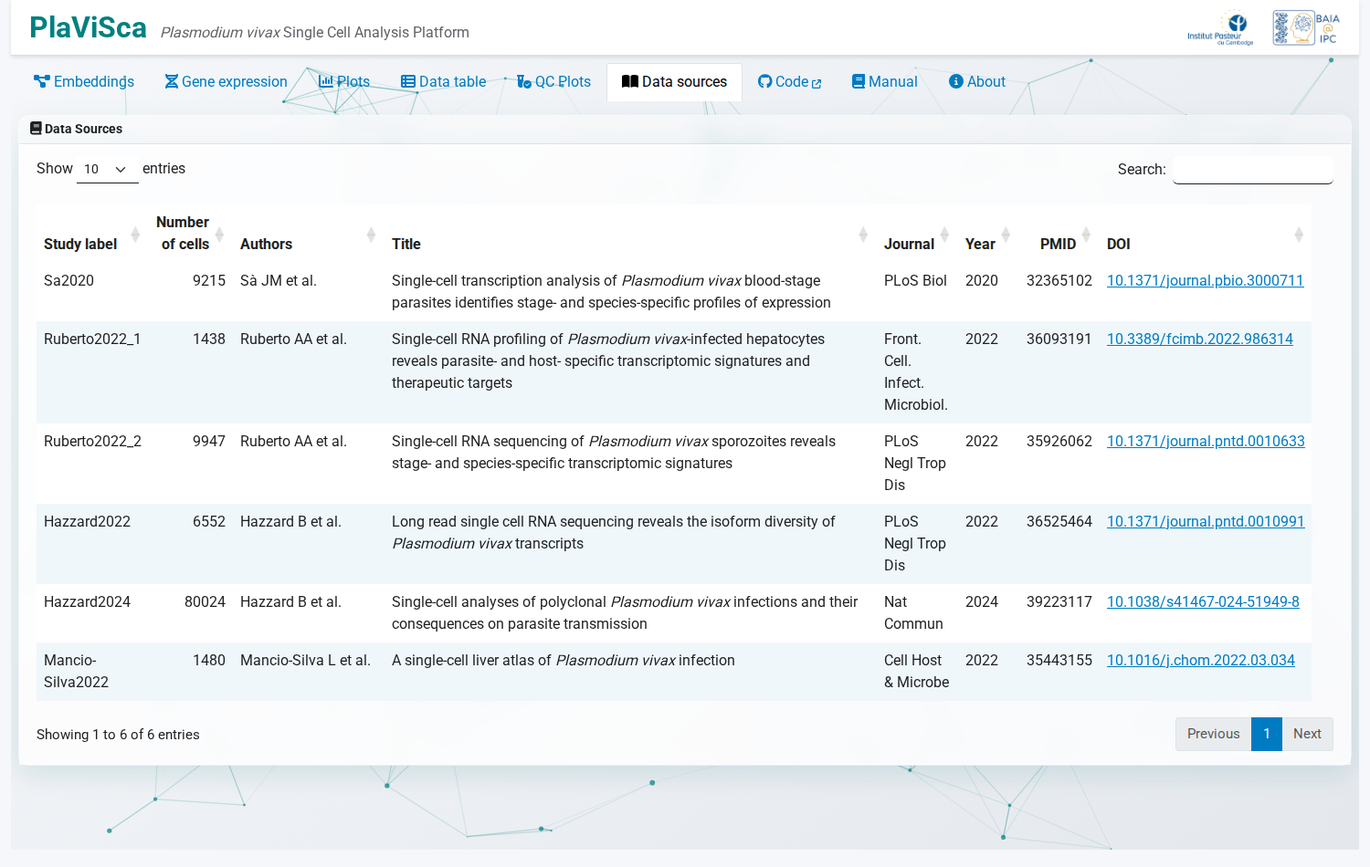
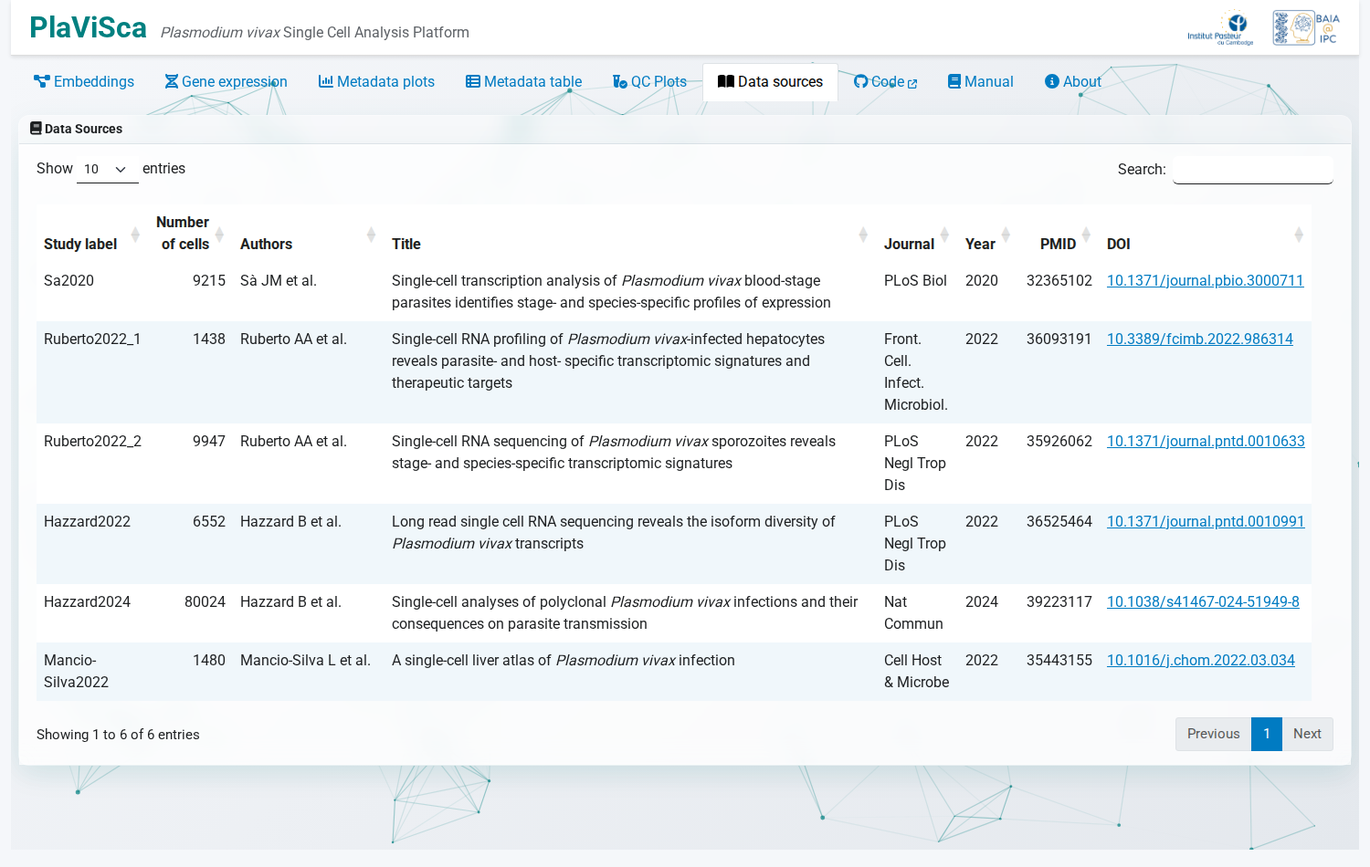
Manual: retake the screenshots and rebuild the HTML manual
The screenshots show the renamed tabs and two plots in the Metadata plots
tab.

diff --git a/manual/docs/build/html/searchindex.js b/manual/docs/build/html/searchindex.js
@@ -1,1 +1,1 @@
-Search.setIndex({"alltitles":{"1. Clone the Repository":[[1,"clone-the-repository"]],"2. Install Dependencies":[[1,"install-dependencies"]],"3. Prepare the Data":[[1,"prepare-the-data"]],"4. Run the Application":[[1,"run-the-application"]],"About":[[2,"about"]],"Best Practices":[[2,"best-practices"]],"Contact":[[1,"contact"],[2,"contact"]],"Contents":[[0,null]],"Data Processing Pipeline":[[2,"data-processing-pipeline"]],"Data Sources":[[2,"data-sources"]],"Data table":[[2,"data-table"]],"Embeddings":[[2,"embeddings"]],"Environment Snapshot (current)":[[1,"environment-snapshot-current"]],"Gene Expression":[[2,"gene-expression"]],"Installation Steps":[[1,"installation-steps"]],"Notes for macOS":[[1,"notes-for-macos"]],"Option A: Using the helper script (Linux/macOS \u2014 Recommended)":[[1,"option-a-using-the-helper-script-linux-macos-recommended"]],"Option B: Using RStudio (Desktop)":[[1,"option-b-using-rstudio-desktop"]],"Option C: From the terminal (R command)":[[1,"option-c-from-the-terminal-r-command"]],"Overview of PlaViSca Features":[[2,"overview-of-plavisca-features"]],"Plots":[[2,"plots"]],"QC Plots":[[2,"qc-plots"]],"Setup Guide":[[1,null]],"Source Code":[[1,"source-code"]],"System Requirements":[[1,"system-requirements"]],"Troubleshooting":[[1,"troubleshooting"]],"User Manual":[[2,null]],"Welcome to PlaViSca":[[0,null]]},"docnames":["index","setup_guide","user_manual"],"envversion":{"sphinx":66,"sphinx.domains.c":3,"sphinx.domains.changeset":1,"sphinx.domains.citation":1,"sphinx.domains.cpp":9,"sphinx.domains.index":1,"sphinx.domains.javascript":3,"sphinx.domains.math":2,"sphinx.domains.python":4,"sphinx.domains.rst":2,"sphinx.domains.std":2},"filenames":["index.rst","setup_guide.md","user_manual.md"],"indexentries":{},"objects":{},"objnames":{},"objtypes":{},"terms":{"2d":2,"3d":2,"A":2,"AND":2,"About":0,"All":[1,2],"At":1,"BY":1,"Below":2,"Each":2,"For":[1,2],"I":1,"If":1,"It":[0,2],"Most":2,"No":2,"OR":2,"On":1,"The":[1,2],"Their":1,"Then":1,"These":1,"This":[0,1,2],"To":[1,2],"What":2,"With":2,"abov":[1,2],"access":2,"across":2,"activ":[1,2],"add":[1,2],"addit":1,"address":1,"ai":2,"al":2,"allow":2,"also":2,"analysi":[0,2],"ani":[1,2],"anim":2,"annot":2,"anoth":1,"anthoni":[1,2],"app":[1,2],"app_data":1,"appear":2,"appl":1,"appli":2,"applic":[0,2],"appropri":2,"apt":1,"arm":2,"arrow":2,"artifici":1,"asn1_bit_str":1,"aspect":2,"assess":2,"assist":[1,2],"attribut":[1,2],"author":[1,2],"auto":1,"automat":1,"avail":[1,2],"averag":2,"axe":2,"b":2,"background":2,"baia":[1,2],"bar":2,"bash":1,"befor":[1,2],"best":0,"bioinformat":[1,2],"biolog":2,"biomed":[1,2],"blood":2,"box":2,"brew":1,"bring":2,"broad":2,"browser":[1,2],"bslib":1,"bug":2,"build":1,"builder":2,"built":1,"button":[1,2],"cach":1,"call":[1,2],"cambodg":[1,2],"can":[1,2],"capabl":2,"cc":1,"cd":1,"cell":[0,1,2],"centr":2,"chang":2,"charact":1,"chart":2,"check":[1,2],"chmod":1,"choos":2,"chosen":2,"citat":2,"classifi":2,"cleaned_dataset":1,"clear":1,"click":[1,2],"clinic":2,"clone":0,"close":1,"cluster":2,"code":[0,2],"cog":2,"collabor":1,"colleg":[1,2],"color":2,"colour":2,"column":[1,2],"com":1,"come":2,"common":[1,2],"communiti":0,"compar":2,"comparison":2,"compat":[1,2],"compil":1,"complex":0,"compon":2,"composit":2,"comprehens":2,"conclus":2,"conda":1,"condit":2,"config":1,"configur":1,"conflict":1,"const":1,"contact":0,"contain":[1,2],"contributor":[1,2],"control":2,"copi":1,"core":1,"corner":[1,2],"correspond":1,"count":[1,2],"cours":2,"cover":0,"cpu":1,"crash":1,"creat":1,"creativ":1,"credit":2,"cross":2,"csv":[1,2],"curl":1,"current":[0,2],"customiz":2,"cycl":[1,2],"data":0,"data_column":1,"data_sourc":1,"dataset":[0,2],"day":2,"deactiv":1,"default":[1,2],"definit":1,"depart":[1,2],"depend":0,"describ":2,"descript":[1,2],"design":0,"detail":[0,2],"determin":2,"dev":1,"develop":1,"deviat":2,"dialog":2,"differ":[1,2],"dimens":2,"dimension":2,"direct":2,"directori":1,"disabl":[1,2],"disk":1,"display":[1,2],"distinct":2,"distribut":2,"divid":2,"doc":1,"document":2,"doe":2,"doi":2,"download":[1,2],"dplyr":1,"draw":2,"drug":2,"dt":1,"du":[1,2],"due":1,"dynam":2,"e":[1,2],"earli":2,"edg":2,"editor":1,"edu":[1,2],"effect":0,"elbow":2,"embed":[0,1],"empow":0,"empti":[1,2],"enabl":[1,2],"ensur":[1,2],"environ":0,"error":1,"especi":[0,1],"et":2,"everi":2,"exact":[1,2],"exampl":[1,2],"exclud":2,"experi":2,"explor":[0,1,2],"export":[1,2],"expos":1,"express":[0,1],"extend":1,"extern":2,"facilit":2,"fail":1,"fals":1,"featur":0,"feedback":1,"femal":2,"field":2,"figur":2,"file":[1,2],"filter":2,"find":[1,2],"first":[1,2],"five":1,"fix":1,"flag":1,"flexibl":2,"florida":[1,2],"focus":2,"fold":2,"folder":1,"follow":[1,2],"fontawesom":1,"found":1,"four":2,"free":[0,1],"freeli":1,"fsu":[1,2],"full":2,"funnel":2,"g":[1,2],"gametocyt":2,"gb":1,"gene":[0,1],"gene_annot":1,"general":2,"get":[1,2],"ggonnella":[1,2],"giorgio":[1,2],"git":1,"github":[1,2],"give":2,"gland":2,"global":2,"go":1,"gonnella":[1,2],"group":2,"guid":[0,2],"guidanc":[0,2],"h":[1,2],"harmless":1,"harmoni":2,"hazzard2022":2,"head":[1,2],"headless":1,"heatmap":2,"help":[1,2],"high":2,"highlight":2,"hold":2,"homebrew":1,"host":[1,2],"hostnam":1,"hover":2,"http":1,"https":1,"hvf":2,"hypnozoit":2,"icon":2,"id":2,"identifi":1,"implement":2,"improv":1,"includ":2,"incomplet":1,"independ":2,"infect":2,"infer":2,"inform":1,"inner":2,"input":2,"inquiri":1,"insid":1,"instal":0,"instead":2,"institut":[1,2],"instruct":1,"integr":2,"intellig":1,"interact":[0,2],"interfac":[0,2],"internat":1,"interpret":0,"intuit":0,"involv":2,"ip":1,"ipc":[1,2],"isol":2,"issu":[1,2],"javascript":1,"journal":2,"keep":2,"key":2,"kh":[1,2],"l":2,"label":2,"later":1,"launch":1,"layout":2,"least":1,"leav":2,"left":2,"leverag":2,"lib":1,"libcurl4":1,"librari":1,"libssl":1,"libxml2":1,"licens":1,"life":[1,2],"line":1,"link":[1,2],"list":[1,2],"live":1,"liver":2,"load":1,"local":1,"localhost":1,"locat":2,"log":[1,2],"logic":2,"logo":2,"m":2,"main":0,"maintain":1,"make":1,"malaria":[0,2],"mamba":1,"manag":2,"mani":2,"manual":0,"match":1,"matric":2,"may":1,"md":1,"mean":2,"measur":2,"med":[1,2],"medicin":[1,2],"memois":1,"messag":1,"meta":2,"metadata":[1,2],"metric":2,"minim":1,"minimum":1,"miss":[1,2],"modal":2,"mode":2,"modifi":1,"multi":2,"multipl":2,"must":1,"name":[1,2],"navig":2,"ncbi":2,"need":1,"new":2,"next":2,"non":1,"none":1,"normal":2,"normalis":[1,2],"normalize_df":1,"note":2,"noth":2,"number":[1,2],"offer":2,"offici":1,"onc":2,"one":2,"onli":2,"open":[0,1,2],"openssl":1,"oper":1,"optim":2,"option":2,"org":[1,2],"organism":2,"organiz":2,"origin":2,"others":1,"otherwis":2,"outer":2,"overview":0,"p":[1,2],"p01":1,"packag":1,"page":2,"pair":2,"pan":2,"pane":1,"panel":2,"parasit":2,"particl":2,"particular":2,"pasteur":[1,2],"path":1,"pattern":2,"pca":[1,2],"pcs":2,"per":[1,2],"percentag":2,"person":2,"pick":1,"pie":2,"piec":2,"pipelin":1,"pkg_config_path":1,"pkgconfig":1,"plasmodb":2,"plasmodium":[0,2],"plavisca":1,"plavisca_data_dir":1,"pleas":1,"plot":[0,1],"plus":1,"png":2,"point":[1,2],"port":1,"post":2,"practic":0,"precis":2,"prefer":1,"prefix":1,"prepar":0,"preprocess":[1,2],"print":1,"problem":1,"professor":[1,2],"project":[1,2],"provid":[0,1,2],"public":[1,2],"publish":2,"pubm":2,"purpos":0,"qc":0,"qualiti":2,"question":[1,2],"quick":2,"r":0,"ram":1,"raw":[1,2],"raw_df":1,"rcolorbrew":1,"rds":1,"read":[1,2],"readabl":2,"readi":1,"readr":1,"red":2,"reduct":2,"refer":2,"relat":2,"relev":2,"reliabl":2,"remain":2,"remov":[1,2],"renv":1,"repair":1,"repeat":1,"replac":1,"replic":2,"report":2,"repositori":0,"repres":2,"reproduc":2,"requir":0,"research":[0,2],"reserv":1,"respect":2,"restor":1,"result":[1,2],"right":[1,2],"ring":2,"rna":[0,2],"row":2,"rpath":1,"ruberto":[1,2],"run":[0,2],"run_app":1,"runapp":1,"s":[0,1,2],"salivari":2,"sampl":2,"save":2,"say":2,"scale":2,"scatter":2,"scienc":[1,2],"scrna":0,"sd":2,"search":2,"second":2,"section":2,"sector":2,"see":[1,2],"select":[1,2],"selector":2,"seq":[0,2],"sequenc":[0,2],"server":1,"set":[1,2],"setup":[0,2],"sex":2,"sh":1,"share":2,"sheet":2,"shini":[0,1],"shinycssload":1,"shinyj":1,"show":[1,2],"shown":2,"side":2,"similar":2,"simplifi":1,"singl":[0,2],"sit":2,"six":2,"size":2,"slow":1,"slower":1,"snapshot":0,"sne":2,"softwar":[0,2],"solut":1,"sourc":0,"space":1,"speci":2,"specif":1,"split":2,"sporozoit":2,"sra":2,"stack":2,"stage":[1,2],"standard":2,"starsolo":2,"start":2,"startup":1,"state":[1,2],"status":1,"stay":2,"step":0,"stop":1,"strain":2,"string":1,"stringr":1,"struck":2,"studi":[1,2],"subset":2,"sudo":1,"suggest":2,"summari":2,"sunburst":2,"support":2,"svg":2,"switch":2,"synchron":2,"system":0,"systemat":2,"t":2,"tab":[1,2],"tabl":[0,1],"team":[1,2],"technolog":2,"test":1,"tibbl":1,"tick":2,"tidyvers":1,"time":2,"tissu":2,"titl":2,"togeth":2,"toggl":2,"tool":[1,2],"toolbar":2,"tooltip":2,"top":[1,2],"total":2,"transcriptom":2,"transpar":2,"treatment":2,"tri":1,"trophozoit":2,"troubleshoot":0,"true":1,"two":[1,2],"type":[1,2],"umap":2,"unfold":2,"unintegr":2,"unit":1,"universiti":[1,2],"untick":2,"updat":[1,2],"usag":1,"use":2,"user":0,"util":[0,2],"valu":2,"variabl":[1,2],"varianc":2,"various":2,"vector":2,"verifi":2,"version":1,"via":2,"violin":2,"viridi":1,"visit":1,"visual":[0,2],"vivax":[0,1,2],"vs":2,"warn":1,"way":2,"web":[1,2],"welcom":[1,2],"whose":2,"will":1,"window":1,"within":2,"without":1,"work":[1,2],"writexl":1,"written":[1,2],"wrong":1,"x":[1,2],"xcode":1,"xlsx":2,"xml2":1,"y":2,"year":2,"yml":1,"zhu":2,"zoom":2},"titles":["Welcome to PlaViSca","Setup Guide","User Manual"],"titleterms":{"A":1,"About":2,"From":1,"applic":1,"b":1,"best":2,"c":1,"clone":1,"code":1,"command":1,"contact":[1,2],"content":0,"current":1,"data":[1,2],"depend":1,"desktop":1,"embed":2,"environ":1,"express":2,"featur":2,"gene":2,"guid":1,"helper":1,"instal":1,"linux":1,"maco":1,"manual":2,"note":1,"option":1,"overview":2,"pipelin":2,"plavisca":[0,2],"plot":2,"practic":2,"prepar":1,"process":2,"qc":2,"r":1,"recommend":1,"repositori":1,"requir":1,"rstudio":1,"run":1,"script":1,"setup":1,"snapshot":1,"sourc":[1,2],"step":1,"system":1,"tabl":2,"termin":1,"troubleshoot":1,"use":1,"user":2,"welcom":0}})
+Search.setIndex({"alltitles":{"1. Clone the Repository":[[1,"clone-the-repository"]],"2. Install Dependencies":[[1,"install-dependencies"]],"3. Prepare the Data":[[1,"prepare-the-data"]],"4. Run the Application":[[1,"run-the-application"]],"About":[[2,"about"]],"Best Practices":[[2,"best-practices"]],"Contact":[[1,"contact"],[2,"contact"]],"Contents":[[0,null]],"Data Processing Pipeline":[[2,"data-processing-pipeline"]],"Data Sources":[[2,"data-sources"]],"Embeddings":[[2,"embeddings"]],"Environment Snapshot (current)":[[1,"environment-snapshot-current"]],"Gene Expression":[[2,"gene-expression"]],"Installation Steps":[[1,"installation-steps"]],"Metadata plots":[[2,"metadata-plots"]],"Metadata table":[[2,"metadata-table"]],"Notes for macOS":[[1,"notes-for-macos"]],"Option A: Using the helper script (Linux/macOS \u2014 Recommended)":[[1,"option-a-using-the-helper-script-linux-macos-recommended"]],"Option B: Using RStudio (Desktop)":[[1,"option-b-using-rstudio-desktop"]],"Option C: From the terminal (R command)":[[1,"option-c-from-the-terminal-r-command"]],"Overview of PlaViSca Features":[[2,"overview-of-plavisca-features"]],"QC Plots":[[2,"qc-plots"]],"Setup Guide":[[1,null]],"Source Code":[[1,"source-code"]],"System Requirements":[[1,"system-requirements"]],"Troubleshooting":[[1,"troubleshooting"]],"User Manual":[[2,null]],"Welcome to PlaViSca":[[0,null]]},"docnames":["index","setup_guide","user_manual"],"envversion":{"sphinx":66,"sphinx.domains.c":3,"sphinx.domains.changeset":1,"sphinx.domains.citation":1,"sphinx.domains.cpp":9,"sphinx.domains.index":1,"sphinx.domains.javascript":3,"sphinx.domains.math":2,"sphinx.domains.python":4,"sphinx.domains.rst":2,"sphinx.domains.std":2},"filenames":["index.rst","setup_guide.md","user_manual.md"],"indexentries":{},"objects":{},"objnames":{},"objtypes":{},"terms":{"2d":2,"3d":2,"A":2,"AND":2,"About":0,"All":[1,2],"At":1,"BY":1,"Below":2,"Each":2,"For":[1,2],"I":1,"If":1,"It":[0,2],"More":2,"Most":2,"No":2,"OR":2,"On":1,"The":[1,2],"Their":1,"Then":1,"These":1,"This":[0,1,2],"To":[1,2],"What":2,"With":2,"abov":[1,2],"access":2,"across":2,"activ":[1,2],"add":[1,2],"addit":1,"address":1,"ai":2,"al":2,"allow":2,"also":2,"analysi":[0,2],"ani":[1,2],"anim":2,"annot":2,"anoth":[1,2],"anthoni":[1,2],"app":[1,2],"app_data":1,"appear":2,"appl":1,"appli":2,"applic":[0,2],"appropri":2,"apt":1,"arm":2,"arrow":2,"artifici":1,"asn1_bit_str":1,"aspect":2,"assess":2,"assist":[1,2],"attribut":[1,2],"author":[1,2],"auto":1,"automat":1,"avail":[1,2],"averag":2,"axe":2,"b":2,"background":2,"baia":[1,2],"bar":2,"bash":1,"befor":[1,2],"best":0,"bioinformat":[1,2],"biolog":2,"biomed":[1,2],"blood":2,"box":2,"brew":1,"bring":2,"broad":2,"browser":[1,2],"bslib":1,"bug":2,"build":1,"builder":[],"built":1,"button":[1,2],"cach":1,"call":[1,2],"cambodg":[1,2],"can":[1,2],"capabl":2,"cc":1,"cd":1,"cell":[0,1,2],"centr":2,"chang":2,"charact":1,"chart":2,"check":[1,2],"chmod":1,"choos":2,"chosen":2,"citat":2,"classifi":2,"cleaned_dataset":1,"clear":1,"click":[1,2],"clinic":2,"clone":0,"close":1,"cluster":2,"code":[0,2],"cog":2,"collabor":1,"colleg":[1,2],"color":2,"colour":2,"column":[1,2],"com":1,"come":2,"common":[1,2],"communiti":0,"compar":2,"comparison":2,"compat":[1,2],"compil":1,"complex":0,"compon":2,"composit":2,"comprehens":2,"conclus":2,"conda":1,"condit":2,"config":1,"configur":1,"conflict":1,"const":1,"contact":0,"contain":[1,2],"contributor":[1,2],"control":2,"copi":1,"core":1,"corner":[1,2],"correspond":1,"count":[1,2],"cours":2,"cover":0,"cpu":1,"crash":1,"creat":1,"creativ":1,"credit":2,"cross":2,"csv":[1,2],"curl":1,"current":[0,2],"customiz":2,"cycl":[1,2],"data":0,"data_column":1,"data_sourc":1,"dataset":[0,2],"day":2,"deactiv":1,"decid":2,"default":[1,2],"definit":1,"depart":[1,2],"depend":0,"describ":2,"descript":[1,2],"design":0,"detail":[0,2],"determin":2,"dev":1,"develop":1,"deviat":2,"dialog":2,"differ":[1,2],"dimens":2,"dimension":2,"direct":2,"directori":1,"disabl":[1,2],"disk":1,"display":[1,2],"distinct":2,"distribut":2,"divid":2,"doc":1,"document":2,"doe":2,"doi":2,"download":[1,2],"dplyr":1,"draw":2,"drug":2,"dt":1,"du":[1,2],"due":1,"dynam":2,"e":[1,2],"earli":2,"edg":2,"editor":1,"edu":[1,2],"effect":0,"elbow":2,"embed":[0,1],"empow":0,"empti":[1,2],"enabl":[1,2],"ensur":[1,2],"environ":0,"error":1,"especi":[0,1],"et":2,"everi":2,"exact":[1,2],"exampl":[1,2],"exclud":2,"experi":2,"explor":[0,1,2],"export":[1,2],"expos":1,"express":[0,1],"extend":1,"extern":2,"facilit":2,"fail":1,"fals":1,"featur":0,"feedback":1,"femal":2,"field":2,"figur":2,"file":[1,2],"filter":2,"find":[1,2],"first":[1,2],"five":1,"fix":1,"flag":1,"flexibl":2,"florida":[1,2],"focus":2,"fold":2,"folder":1,"follow":[1,2],"fontawesom":1,"found":1,"four":[],"free":[0,1],"freeli":1,"fsu":[1,2],"full":2,"funnel":2,"g":[1,2],"gametocyt":2,"gb":1,"gene":[0,1],"gene_annot":1,"general":2,"get":[1,2],"ggonnella":[1,2],"giorgio":[1,2],"git":1,"github":[1,2],"give":2,"gland":2,"global":2,"go":1,"gonnella":[1,2],"group":2,"guid":[0,2],"guidanc":[0,2],"h":[1,2],"half":2,"harmless":1,"harmoni":2,"hazzard2022":2,"head":[1,2],"headless":1,"heatmap":2,"help":[1,2],"high":2,"highlight":2,"hold":2,"homebrew":1,"host":[1,2],"hostnam":1,"hover":2,"http":1,"https":1,"hvf":2,"hypnozoit":2,"icon":2,"id":2,"identifi":1,"implement":2,"improv":1,"includ":2,"incomplet":1,"independ":2,"infect":2,"infer":2,"inform":1,"inner":2,"input":2,"inquiri":1,"insid":1,"instal":0,"instead":2,"institut":[1,2],"instruct":1,"integr":2,"intellig":1,"interact":[0,2],"interfac":[0,2],"internat":1,"interpret":0,"intuit":0,"involv":2,"ip":1,"ipc":[1,2],"isol":2,"issu":[1,2],"javascript":1,"journal":2,"keep":2,"key":2,"kh":[1,2],"l":2,"label":2,"last":2,"later":1,"launch":1,"layout":2,"least":1,"leav":2,"left":2,"leverag":2,"lib":1,"libcurl4":1,"librari":1,"libssl":1,"libxml2":1,"licens":1,"life":[1,2],"line":1,"link":[1,2],"list":[1,2],"live":1,"liver":2,"load":1,"local":1,"localhost":1,"locat":2,"log":[1,2],"logic":2,"logo":2,"m":2,"main":0,"maintain":1,"make":1,"malaria":[0,2],"mamba":1,"manag":2,"mani":2,"manual":0,"match":1,"matric":2,"may":1,"md":1,"mean":2,"measur":2,"med":[1,2],"medicin":[1,2],"memois":1,"messag":1,"meta":2,"metadata":[0,1],"metric":2,"minim":1,"minimum":1,"miss":[1,2],"modal":2,"mode":2,"modifi":1,"multi":2,"multipl":2,"must":1,"name":[1,2],"navig":2,"ncbi":2,"need":1,"new":2,"next":2,"non":1,"none":1,"normal":2,"normalis":[1,2],"normalize_df":1,"note":2,"noth":[],"number":[1,2],"offer":2,"offici":1,"onc":2,"one":2,"onli":2,"open":[0,1,2],"openssl":1,"oper":1,"optim":2,"option":2,"org":[1,2],"organism":2,"organiz":2,"origin":2,"others":1,"otherwis":2,"outer":2,"overview":0,"p":[1,2],"p01":1,"packag":1,"page":2,"pair":2,"pan":2,"pane":1,"panel":2,"parasit":2,"particl":2,"particular":2,"pasteur":[1,2],"path":1,"pattern":2,"pca":[1,2],"pcs":2,"per":[1,2],"percentag":2,"person":2,"pick":1,"pie":2,"piec":2,"pipelin":1,"pkg_config_path":1,"pkgconfig":1,"plasmodb":2,"plasmodium":[0,2],"plavisca":1,"plavisca_data_dir":1,"pleas":1,"plot":[0,1],"plus":1,"png":2,"point":[1,2],"port":1,"post":2,"practic":0,"precis":2,"prefer":1,"prefix":1,"prepar":0,"preprocess":[1,2],"print":1,"problem":1,"professor":[1,2],"project":[1,2],"provid":[0,1,2],"public":[1,2],"publish":2,"pubm":2,"purpos":0,"qc":0,"qualiti":2,"question":[1,2],"quick":2,"r":0,"ram":1,"raw":[1,2],"raw_df":1,"rcolorbrew":1,"rds":1,"read":[1,2],"readabl":2,"readi":1,"readr":1,"red":2,"reduct":2,"refer":2,"relat":2,"relev":2,"reliabl":2,"remain":2,"remov":[1,2],"renv":1,"repair":1,"repeat":1,"replac":1,"replic":2,"report":2,"repositori":0,"repres":2,"reproduc":2,"requir":0,"research":[0,2],"reserv":1,"respect":2,"restor":1,"result":[1,2],"right":[1,2],"ring":2,"rna":[0,2],"row":2,"rpath":1,"ruberto":[1,2],"run":[0,2],"run_app":1,"runapp":1,"s":[0,1,2],"salivari":2,"sampl":2,"save":2,"say":2,"scale":2,"scatter":2,"scienc":[1,2],"scrna":0,"sd":2,"search":2,"second":2,"section":2,"sector":2,"see":[1,2],"select":[1,2],"selector":2,"seq":[0,2],"sequenc":[0,2],"server":1,"set":[1,2],"setup":[0,2],"sex":2,"sh":1,"share":2,"sheet":2,"shini":[0,1],"shinycssload":1,"shinyj":1,"show":[1,2],"shown":2,"side":2,"similar":2,"simplifi":1,"singl":[0,2],"sit":2,"six":2,"size":2,"slow":1,"slower":1,"snapshot":0,"sne":2,"softwar":[0,2],"solut":1,"sourc":0,"space":1,"speci":2,"specif":1,"split":2,"sporozoit":2,"sra":2,"stack":2,"stage":[1,2],"standard":2,"starsolo":2,"start":2,"startup":1,"state":[1,2],"status":1,"stay":2,"step":0,"stop":1,"strain":2,"string":1,"stringr":1,"struck":2,"studi":[1,2],"subset":2,"sudo":1,"suggest":2,"summari":2,"sunburst":2,"support":2,"svg":2,"switch":2,"synchron":2,"system":0,"systemat":2,"t":2,"tab":[1,2],"tabl":[0,1],"take":2,"team":[1,2],"technolog":2,"test":1,"tibbl":1,"tick":2,"tidyvers":1,"time":2,"tissu":2,"titl":2,"togeth":2,"toggl":2,"tool":[1,2],"toolbar":2,"tooltip":2,"top":[1,2],"total":2,"transcriptom":2,"transpar":2,"treatment":2,"tri":1,"trophozoit":2,"troubleshoot":0,"true":1,"two":[1,2],"type":[1,2],"umap":2,"unfold":2,"unintegr":2,"unit":1,"universiti":[1,2],"untick":2,"updat":[1,2],"usag":1,"use":2,"user":0,"util":[0,2],"valu":2,"variabl":[1,2],"varianc":2,"various":2,"vector":2,"verifi":2,"version":1,"via":2,"violin":2,"viridi":1,"visit":1,"visual":[0,2],"vivax":[0,1,2],"vs":2,"warn":1,"way":2,"web":[1,2],"welcom":[1,2],"whether":2,"whose":2,"width":2,"will":1,"window":1,"within":2,"without":1,"work":[1,2],"writexl":1,"written":[1,2],"wrong":1,"x":[1,2],"xcode":1,"xlsx":2,"xml2":1,"y":2,"year":2,"yml":1,"zhu":2,"zoom":2},"titles":["Welcome to PlaViSca","Setup Guide","User Manual"],"titleterms":{"A":1,"About":2,"From":1,"applic":1,"b":1,"best":2,"c":1,"clone":1,"code":1,"command":1,"contact":[1,2],"content":0,"current":1,"data":[1,2],"depend":1,"desktop":1,"embed":2,"environ":1,"express":2,"featur":2,"gene":2,"guid":1,"helper":1,"instal":1,"linux":1,"maco":1,"manual":2,"metadata":2,"note":1,"option":1,"overview":2,"pipelin":2,"plavisca":[0,2],"plot":2,"practic":2,"prepar":1,"process":2,"qc":2,"r":1,"recommend":1,"repositori":1,"requir":1,"rstudio":1,"run":1,"script":1,"setup":1,"snapshot":1,"sourc":[1,2],"step":1,"system":1,"tabl":2,"termin":1,"troubleshoot":1,"use":1,"user":2,"welcom":0}})

diff --git a/manual/docs/build/html/user_manual.html b/manual/docs/build/html/user_manual.html
@@ -48,8 +48,8 @@
 <li class="toctree-l2"><a class="reference internal" href="#overview-of-plavisca-features">Overview of PlaViSca Features</a><ul>
 <li class="toctree-l3"><a class="reference internal" href="#embeddings">Embeddings</a></li>
 <li class="toctree-l3"><a class="reference internal" href="#gene-expression">Gene Expression</a></li>
-<li class="toctree-l3"><a class="reference internal" href="#plots">Plots</a></li>
-<li class="toctree-l3"><a class="reference internal" href="#data-table">Data table</a></li>
+<li class="toctree-l3"><a class="reference internal" href="#metadata-plots">Metadata plots</a></li>
+<li class="toctree-l3"><a class="reference internal" href="#metadata-table">Metadata table</a></li>
 <li class="toctree-l3"><a class="reference internal" href="#qc-plots">QC Plots</a></li>
 <li class="toctree-l3"><a class="reference internal" href="#data-sources">Data Sources</a></li>
 <li class="toctree-l3"><a class="reference internal" href="#about">About</a></li>
@@ -117,8 +117,8 @@
 <ul class="simple">
 <li><p><strong>Embeddings</strong></p></li>
 <li><p><strong>Gene Expression</strong></p></li>
-<li><p><strong>Plots</strong>: charts of the cell metadata</p></li>
-<li><p><strong>Data table</strong>: one row per cell with its metadata</p></li>
+<li><p><strong>Metadata plots</strong>: charts of the cell metadata</p></li>
+<li><p><strong>Metadata table</strong>: one row per cell with its metadata</p></li>
 <li><p><strong>QC Plots</strong></p></li>
 <li><p><strong>Data Sources</strong></p></li>
 <li><p><strong>Code</strong>: opens the source code of the app on GitHub, in a new browser tab</p></li>
@@ -126,7 +126,7 @@
 <li><p><strong>About</strong>: the project, its team and how to get involved</p></li>
 </ul>
 <p>The app opens on the Embeddings tab, over an animated particle background.</p>
-<p>All data tabs (Embeddings, Gene Expression, Plots, Data table, QC Plots) share a common <strong>Filters</strong> row at the top with the following fields:</p>
+<p>All data tabs (Embeddings, Gene Expression, Metadata plots, Metadata table, QC Plots) share a common <strong>Filters</strong> row at the top with the following fields:</p>
 <table class="docutils align-default">
 <thead>
 <tr class="row-odd"><th class="head"><p>Filter field</p></th>
@@ -223,11 +223,11 @@
 <li><p><strong>Download</strong>: Export per-panel expression data as an <code class="docutils literal notranslate"><span class="pre">.xlsx</span></code> file containing an Expression Data sheet and a Metadata sheet.</p></li>
 </ul>
 </section>
-<section id="plots">
-<h3>Plots<a class="headerlink" href="#plots" title="Link to this heading"></a></h3>
-<p><img alt="Figure 5: Plots tab" src="_images/plots.png" />
-<strong>Figure 5</strong>: Plots tab</p>
-<p>The Plots tab counts the selected cells by one or two metadata fields and draws the counts as the plot you choose (<strong>Figure 5</strong>). Changing the filters updates the value boxes and the plot.</p>
+<section id="metadata-plots">
+<h3>Metadata plots<a class="headerlink" href="#metadata-plots" title="Link to this heading"></a></h3>
+<p><img alt="Figure 5: Metadata plots tab" src="_images/plots.png" />
+<strong>Figure 5</strong>: Metadata plots tab</p>
+<p>The Metadata plots tab counts the selected cells by one or two metadata fields and draws the counts as the plot you choose (<strong>Figure 5</strong>). Changing the filters updates the value boxes and the plots.</p>
 <p><strong>Summary value boxes:</strong></p>
 <table class="docutils align-default">
 <thead>
@@ -247,7 +247,7 @@
 </tr>
 </tbody>
 </table>
-<p><strong>Plot builder.</strong> Four controls above the plot choose what it shows:</p>
+<p><strong>Plots.</strong> Each plot sits in a panel taking half the width of the page. Choose the plot type first; it decides whether the cells are counted by one field or by two:</p>
 <table class="docutils align-default">
 <thead>
 <tr class="row-odd"><th class="head"><p>Control</p></th>
@@ -255,17 +255,17 @@
 </tr>
 </thead>
 <tbody>
-<tr class="row-even"><td><p><strong>Count cells by</strong></p></td>
+<tr class="row-even"><td><p><strong>Plot type</strong></p></td>
+<td><p>for one field: bar chart or pie chart. For two fields: stacked bars, grouped bars, heatmap, sunburst, or one pie per group (up to 12 groups)</p></td>
+</tr>
+<tr class="row-odd"><td><p><strong>Count by</strong></p></td>
 <td><p>the field to count the cells by, e.g. Study label or Life-cycle stage</p></td>
 </tr>
-<tr class="row-odd"><td><p><strong>Split by</strong></p></td>
-<td><p>optionally, a second field that splits each group of cells, e.g. the life-cycle stages within each study; “Nothing” counts by one field only</p></td>
+<tr class="row-even"><td><p><strong>Split by</strong></p></td>
+<td><p>only for the plot types of two fields: the second field, which splits each group of cells, e.g. the life-cycle stages within each study</p></td>
 </tr>
-<tr class="row-even"><td><p><strong>Plot type</strong></p></td>
-<td><p>with one field: bar chart or pie chart. With two fields: stacked bars, grouped bars, heatmap, sunburst, or one pie per group (up to 12 groups)</p></td>
-</tr>
-<tr class="row-odd"><td><p><strong>Show</strong></p></td>
-<td><p>numbers of cells, or percentages. With one field, a percentage is the share of all selected cells; with two fields, the share of the cells with the same value of the first field (each bar of a stacked bar chart then adds up to 100%)</p></td>
+<tr class="row-odd"><td><p><strong>Cells / % of cells</strong></p></td>
+<td><p>below the plot: numbers of cells, or percentages. With one field, a percentage is the share of all selected cells; with two fields, the share of the cells with the same value of the first field (each bar of a stacked bar chart then adds up to 100%)</p></td>
 </tr>
 </tbody>
 </table>
@@ -278,17 +278,18 @@
 <li><p><strong>One pie per group</strong>: one pie for each value of the first field.</p></li>
 </ul>
 <p>Below the plot are the descriptions of the chosen fields and <strong>Export .csv</strong>, which saves the counts shown in the plot as a table.</p>
-<p><em>Example: compare the life-cycle stages of the studies.</em> Choose <strong>Count cells by</strong> “Study label”, <strong>Split by</strong> “Life-cycle stage”, <strong>Plot type</strong> “Stacked bars” and <strong>Show</strong> “% of cells”. Each bar is one study, divided into its stages. Switch to “Heatmap” to read the exact percentages.</p>
+<p><strong>More plots.</strong> Click <strong>+</strong> below the last plot to add another one next to it (two per row), and <strong>−</strong> to remove a plot. Each plot has its own controls; all of them use the same filters.</p>
+<p><em>Example: compare the life-cycle stages of the studies.</em> Choose <strong>Plot type</strong> “Stacked bars”, <strong>Count by</strong> “Study label”, <strong>Split by</strong> “Life-cycle stage” and “% of cells”. Each bar is one study, divided into its stages. Click <strong>+</strong> and choose “Heatmap” with the same fields in the new plot to read the exact percentages next to it.</p>
 <blockquote>
 <div><p><strong>Note:</strong> Blood-stage cells get the life-cycle stage inferred by PlaViSca: the gametocyte call of the cell’s cluster, otherwise the most similar reference time point. Sporozoites and liver stages, which PlaViSca does not classify, keep the authors’ labels. The field “Source of the life-cycle stage” says which one a cell’s stage comes from. The authors’ labels remain available for comparison (“Life-cycle stage (authors)”, “Gametocyte sex (authors)”): split one by the other to compare them.</p>
 </div></blockquote>
-<p>The settings panel (cog button) has one option, <strong>Show missing</strong>: untick it to leave out of the plot the cells whose value is missing.</p>
+<p>The settings panel (cog button) has one option, <strong>Show missing</strong>: untick it to leave out of all plots the cells whose value is missing.</p>
 <p>Hover over the plot for details; use the controls in its top-right corner to zoom, pan or download it (as PNG or SVG).</p>
 </section>
-<section id="data-table">
-<h3>Data table<a class="headerlink" href="#data-table" title="Link to this heading"></a></h3>
-<p><img alt="Figure 6: Data table tab" src="_images/data_table.png" />
-<strong>Figure 6</strong>: Data table tab</p>
+<section id="metadata-table">
+<h3>Metadata table<a class="headerlink" href="#metadata-table" title="Link to this heading"></a></h3>
+<p><img alt="Figure 6: Metadata table tab" src="_images/data_table.png" />
+<strong>Figure 6</strong>: Metadata table tab</p>
 <p>One row per cell: the cell ID, study, SRA run and the authors’ cell ID (missing for Hazzard2022, whose cells were called by PlaViSca), then the host and tissue, strain and origin, treatment, life-cycle stage (and the authors’ stage), reference time point, gametocyte calls, biological replicate, day post infection, technology, sequencer and counts. Search globally or filter by column, and export the table as CSV.</p>
 </section>
 <section id="qc-plots">

diff --git a/manual/docs/build/html/index.html b/manual/docs/build/html/index.html
@@ -47,8 +47,8 @@
 <li class="toctree-l2"><a class="reference internal" href="user_manual.html#overview-of-plavisca-features">Overview of PlaViSca Features</a><ul>
 <li class="toctree-l3"><a class="reference internal" href="user_manual.html#embeddings">Embeddings</a></li>
 <li class="toctree-l3"><a class="reference internal" href="user_manual.html#gene-expression">Gene Expression</a></li>
-<li class="toctree-l3"><a class="reference internal" href="user_manual.html#plots">Plots</a></li>
-<li class="toctree-l3"><a class="reference internal" href="user_manual.html#data-table">Data table</a></li>
+<li class="toctree-l3"><a class="reference internal" href="user_manual.html#metadata-plots">Metadata plots</a></li>
+<li class="toctree-l3"><a class="reference internal" href="user_manual.html#metadata-table">Metadata table</a></li>
 <li class="toctree-l3"><a class="reference internal" href="user_manual.html#qc-plots">QC Plots</a></li>
 <li class="toctree-l3"><a class="reference internal" href="user_manual.html#data-sources">Data Sources</a></li>
 <li class="toctree-l3"><a class="reference internal" href="user_manual.html#about">About</a></li>
@@ -112,8 +112,8 @@
 <li class="toctree-l2"><a class="reference internal" href="user_manual.html#overview-of-plavisca-features">Overview of PlaViSca Features</a><ul>
 <li class="toctree-l3"><a class="reference internal" href="user_manual.html#embeddings">Embeddings</a></li>
 <li class="toctree-l3"><a class="reference internal" href="user_manual.html#gene-expression">Gene Expression</a></li>
-<li class="toctree-l3"><a class="reference internal" href="user_manual.html#plots">Plots</a></li>
-<li class="toctree-l3"><a class="reference internal" href="user_manual.html#data-table">Data table</a></li>
+<li class="toctree-l3"><a class="reference internal" href="user_manual.html#metadata-plots">Metadata plots</a></li>
+<li class="toctree-l3"><a class="reference internal" href="user_manual.html#metadata-table">Metadata table</a></li>
 <li class="toctree-l3"><a class="reference internal" href="user_manual.html#qc-plots">QC Plots</a></li>
 <li class="toctree-l3"><a class="reference internal" href="user_manual.html#data-sources">Data Sources</a></li>
 <li class="toctree-l3"><a class="reference internal" href="user_manual.html#about">About</a></li>

diff --git a/manual/docs/build/html/genindex.html b/manual/docs/build/html/genindex.html
@@ -45,8 +45,8 @@
 <li class="toctree-l2"><a class="reference internal" href="user_manual.html#overview-of-plavisca-features">Overview of PlaViSca Features</a><ul>
 <li class="toctree-l3"><a class="reference internal" href="user_manual.html#embeddings">Embeddings</a></li>
 <li class="toctree-l3"><a class="reference internal" href="user_manual.html#gene-expression">Gene Expression</a></li>
-<li class="toctree-l3"><a class="reference internal" href="user_manual.html#plots">Plots</a></li>
-<li class="toctree-l3"><a class="reference internal" href="user_manual.html#data-table">Data table</a></li>
+<li class="toctree-l3"><a class="reference internal" href="user_manual.html#metadata-plots">Metadata plots</a></li>
+<li class="toctree-l3"><a class="reference internal" href="user_manual.html#metadata-table">Metadata table</a></li>
 <li class="toctree-l3"><a class="reference internal" href="user_manual.html#qc-plots">QC Plots</a></li>
 <li class="toctree-l3"><a class="reference internal" href="user_manual.html#data-sources">Data Sources</a></li>
 <li class="toctree-l3"><a class="reference internal" href="user_manual.html#about">About</a></li>

diff --git a/manual/docs/build/html/search.html b/manual/docs/build/html/search.html
@@ -48,8 +48,8 @@
 <li class="toctree-l2"><a class="reference internal" href="user_manual.html#overview-of-plavisca-features">Overview of PlaViSca Features</a><ul>
 <li class="toctree-l3"><a class="reference internal" href="user_manual.html#embeddings">Embeddings</a></li>
 <li class="toctree-l3"><a class="reference internal" href="user_manual.html#gene-expression">Gene Expression</a></li>
-<li class="toctree-l3"><a class="reference internal" href="user_manual.html#plots">Plots</a></li>
-<li class="toctree-l3"><a class="reference internal" href="user_manual.html#data-table">Data table</a></li>
+<li class="toctree-l3"><a class="reference internal" href="user_manual.html#metadata-plots">Metadata plots</a></li>
+<li class="toctree-l3"><a class="reference internal" href="user_manual.html#metadata-table">Metadata table</a></li>
 <li class="toctree-l3"><a class="reference internal" href="user_manual.html#qc-plots">QC Plots</a></li>
 <li class="toctree-l3"><a class="reference internal" href="user_manual.html#data-sources">Data Sources</a></li>
 <li class="toctree-l3"><a class="reference internal" href="user_manual.html#about">About</a></li>

diff --git a/manual/docs/build/html/setup_guide.html b/manual/docs/build/html/setup_guide.html
@@ -47,8 +47,8 @@
 <li class="toctree-l2"><a class="reference internal" href="user_manual.html#overview-of-plavisca-features">Overview of PlaViSca Features</a><ul>
 <li class="toctree-l3"><a class="reference internal" href="user_manual.html#embeddings">Embeddings</a></li>
 <li class="toctree-l3"><a class="reference internal" href="user_manual.html#gene-expression">Gene Expression</a></li>
-<li class="toctree-l3"><a class="reference internal" href="user_manual.html#plots">Plots</a></li>
-<li class="toctree-l3"><a class="reference internal" href="user_manual.html#data-table">Data table</a></li>
+<li class="toctree-l3"><a class="reference internal" href="user_manual.html#metadata-plots">Metadata plots</a></li>
+<li class="toctree-l3"><a class="reference internal" href="user_manual.html#metadata-table">Metadata table</a></li>
 <li class="toctree-l3"><a class="reference internal" href="user_manual.html#qc-plots">QC Plots</a></li>
 <li class="toctree-l3"><a class="reference internal" href="user_manual.html#data-sources">Data Sources</a></li>
 <li class="toctree-l3"><a class="reference internal" href="user_manual.html#about">About</a></li>
